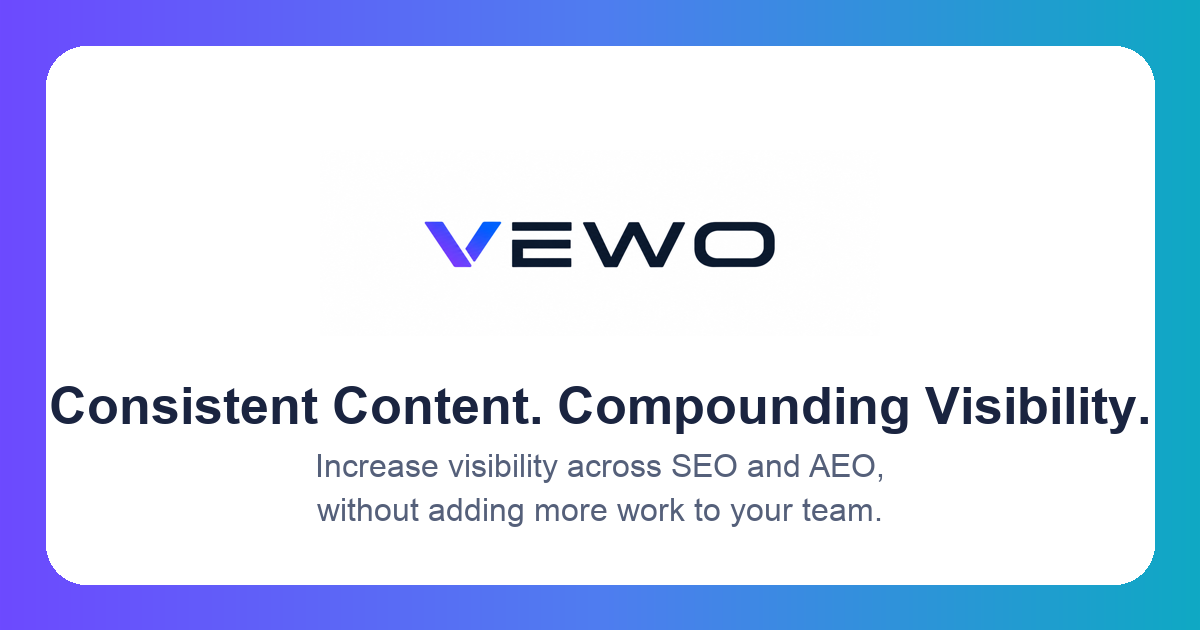
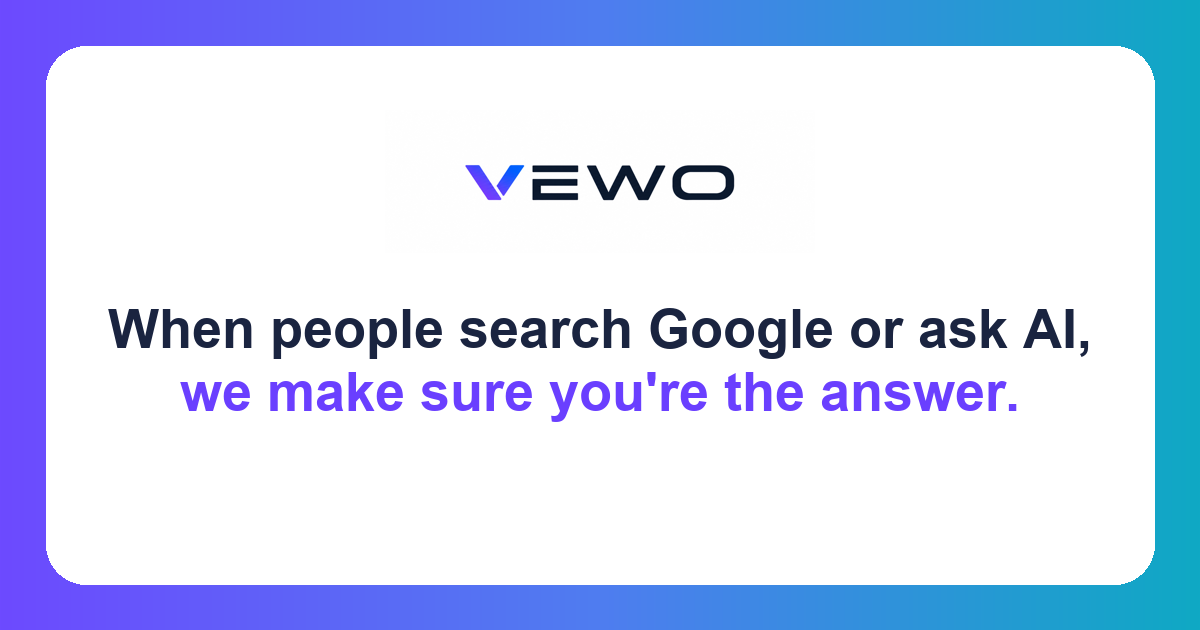
Update link-preview (OG) to the "When people search Google or ask AI" message
- Regenerate og-image.png with the headline "When people search Google or
  ask AI, we make sure you're the answer."
- Update homepage og:title/twitter:title to match the preview caption.
- Leave the visible site and the <title> (browser/search) unchanged.

diff --git a/src/index.html b/src/index.html
@@ -12,7 +12,7 @@
  <meta name="keywords" content="SEO, AEO, GEO, AI visibility, generative search, AI Overviews, ChatGPT, Perplexity, Gemini, managed content, answer engine optimization, organic visibility" />
 
  <!-- Open Graph -->
- <meta property="og:title" content="VEWO: Consistent Content. Compounding Visibility." />
+ <meta property="og:title" content="When people search Google or ask AI, we make sure you're the answer." />
  <meta property="og:description" content="Show up across SEO, AEO, and GEO without adding more work to your team. VEWO continuously identifies the questions your brand needs to answer, creates and human-reviews the content, optimizes it, and publishes it to your site." />
  <meta property="og:type" content="website" />
  <meta property="og:url" content="https://vewo.ai/" />
@@ -23,7 +23,7 @@
 
  <!-- Twitter -->
  <meta name="twitter:card" content="summary_large_image" />
- <meta name="twitter:title" content="VEWO: Consistent Content. Compounding Visibility." />
+ <meta name="twitter:title" content="When people search Google or ask AI, we make sure you're the answer." />
  <meta name="twitter:description" content="Increase visibility across SEO and AEO without adding more work to your team. Consistent monitoring. Consistent content. Consistent execution." />
  <meta name="twitter:image" content="https://vewo.ai/og-image.png" />
 
